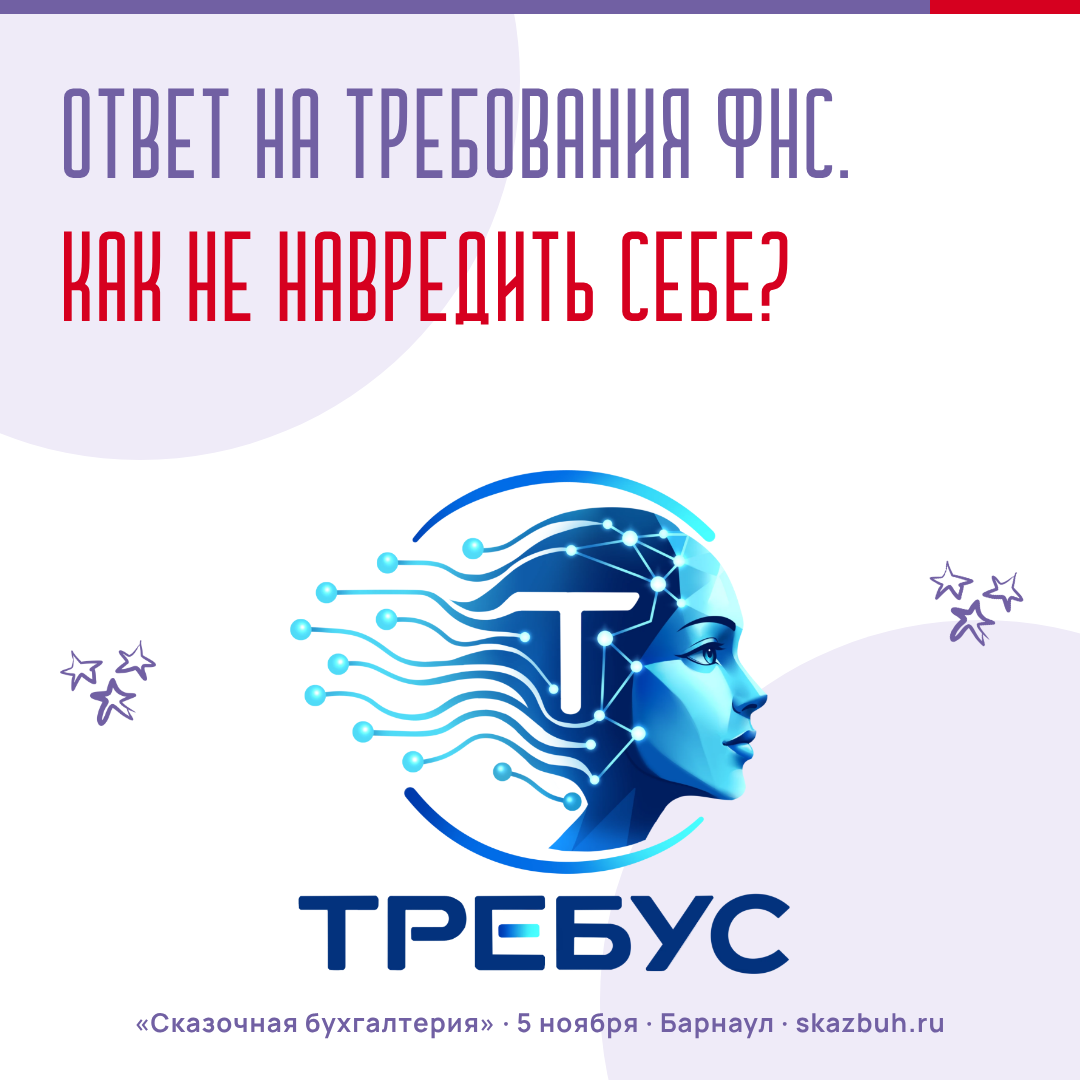
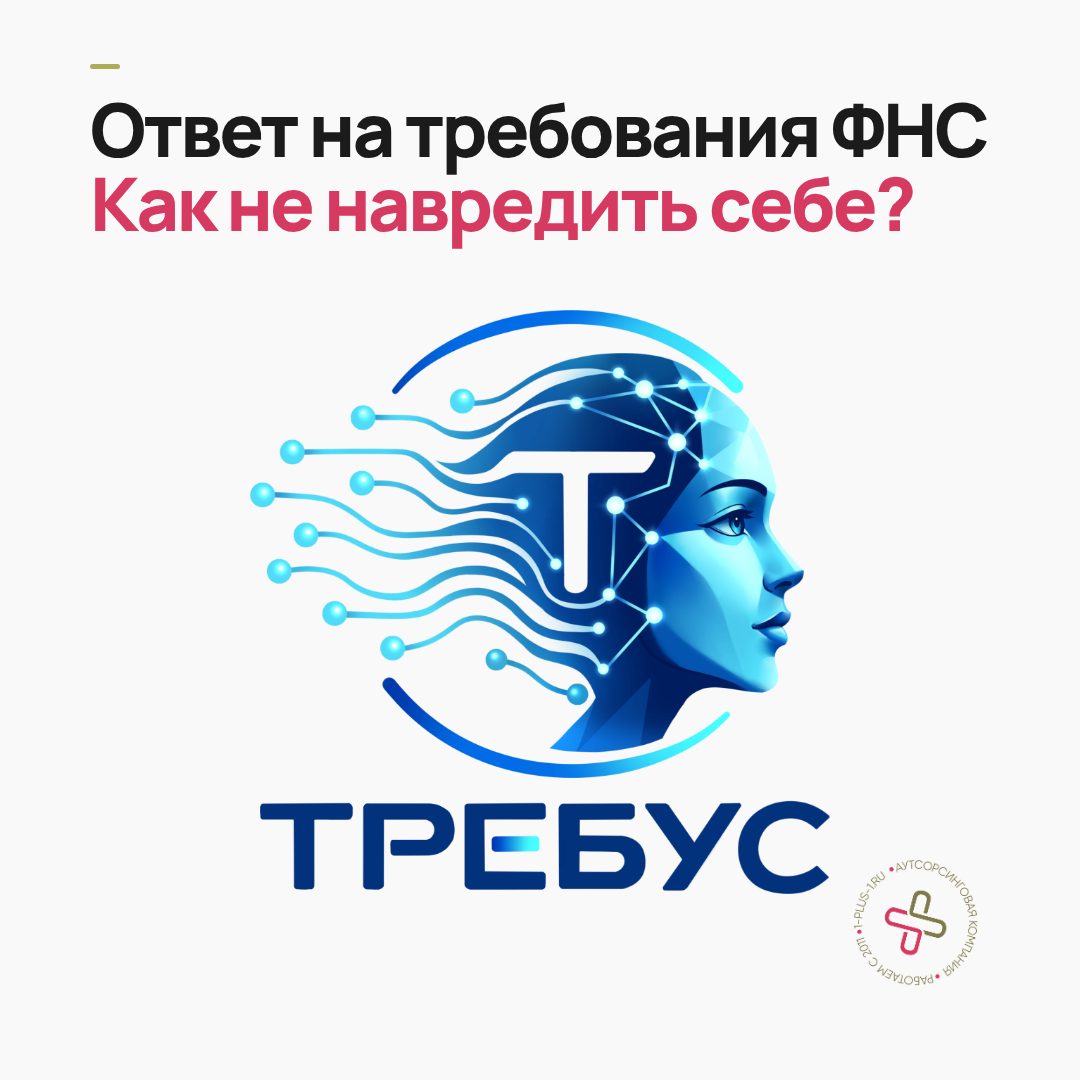
Partner creatives: 1+1 corporate style, no conference mentions
Light cloud base, ink + crimson headline (accent on the question), olive
dash, Manrope as a stand-in for Gilroy, cut-out partner logo, round 1+1
seal in the corner. Footer line about the forum removed.

Claude-Session: https://claude.ai/code/session_01DZEn5nyTAWE8zavBUm6caU

diff --git a/conference-skazbuh/social/partner-story.html b/conference-skazbuh/social/partner-story.html
@@ -1,25 +1,19 @@
 <!DOCTYPE html><html lang="ru"><head><meta charset="utf-8">
 <style>
-@font-face{font-family:'Cramaten';src:url('Cramaten.ttf');}
 @font-face{font-family:'Manrope';src:url('Manrope-Variable.ttf');font-weight:200 800;}
-:root{--violet:#7160a3;--red:#d6001f;--tint:#efebf8}
+:root{--crimson:#D73A61;--olive:#ABAD58;--ink:#1B1B1B;--cloud:#F9F9F9}
 *{margin:0;padding:0;box-sizing:border-box}
-html,body{width:1080px;height:1920px;background:#fff}
-body{position:relative;overflow:hidden}
-.c{position:absolute;border-radius:50%;background:var(--tint)}
-.c.a{left:-300px;top:-150px;width:900px;height:900px}
-.c.b{right:-340px;bottom:-240px;width:960px;height:960px}
-.bar{position:absolute;left:0;top:0;width:100%;height:16px;background:var(--violet)}
-.bar i{position:absolute;right:0;top:0;width:170px;height:16px;background:var(--red)}
-.h{position:absolute;left:64px;right:64px;top:400px;font-family:'Cramaten',sans-serif;text-transform:uppercase;color:var(--violet);font-size:150px;line-height:.98;letter-spacing:.015em}
-.h .r{display:block;color:var(--red);margin-top:24px}
-.logo{position:absolute;left:50%;margin-left:-360px;top:880px;width:720px;height:auto}
-.foot{position:absolute;left:0;right:0;top:1650px;text-align:center;font-family:'Manrope',sans-serif;font-weight:700;font-size:30px;line-height:1.5;letter-spacing:.04em;color:var(--violet)}
-.star{position:absolute;height:auto;width:116px}.s1{left:50px;top:800px}.s2{right:56px;top:190px;transform:rotate(18deg)}
+html,body{width:1080px;height:1920px;background:var(--cloud)}
+body{position:relative;overflow:hidden;font-family:'Manrope',sans-serif}
+.pat{position:absolute;left:-80px;bottom:-30px;width:1500px;opacity:.20}
+.bar{position:absolute;left:100px;top:300px;width:34px;height:6px;border-radius:3px;background:var(--olive)}
+.h{position:absolute;left:100px;right:100px;top:332px;font-weight:800;font-size:70px;white-space:nowrap;line-height:1.0;letter-spacing:-.04em;color:var(--ink)}
+.h span{display:block;color:var(--crimson)}
+.logo{position:absolute;left:50%;margin-left:-390px;top:600px;width:780px;height:auto}
+.badge{position:absolute;right:100px;top:1430px;width:190px;height:auto}
 </style></head><body>
-<div class="c a"></div><div class="c b"></div><div class="bar"><i></i></div>
-<img class="star s1" src="zvezdy-v.png" alt=""><img class="star s2" src="zvezdy-v.png" alt="">
-<div class="h">Ответ на требования ФНС.<span class="r">Как не навредить себе?</span></div>
+<div class="bar"></div>
+<div class="h">Ответ на требования ФНС<span>Как не навредить себе?</span></div>
 <img class="logo" src="trebus-cutout.png" alt="Требус">
-<div class="foot">«Сказочная бухгалтерия»<br>5 ноября · Барнаул · skazbuh.ru</div>
+<img class="badge" src="badge-round.png" alt="">
 </body></html>

diff --git a/conference-skazbuh/social/partner-square.html b/conference-skazbuh/social/partner-square.html
@@ -1,25 +1,19 @@
 <!DOCTYPE html><html lang="ru"><head><meta charset="utf-8">
 <style>
-@font-face{font-family:'Cramaten';src:url('Cramaten.ttf');}
 @font-face{font-family:'Manrope';src:url('Manrope-Variable.ttf');font-weight:200 800;}
-:root{--violet:#7160a3;--red:#d6001f;--tint:#efebf8}
+:root{--crimson:#D73A61;--olive:#ABAD58;--ink:#1B1B1B;--cloud:#F9F9F9}
 *{margin:0;padding:0;box-sizing:border-box}
-html,body{width:1080px;height:1080px;background:#fff}
-body{position:relative;overflow:hidden}
-.c{position:absolute;border-radius:50%;background:var(--tint)}
-.c.a{left:-240px;top:-300px;width:760px;height:760px}
-.c.b{right:-280px;bottom:-300px;width:760px;height:760px}
-.bar{position:absolute;left:0;top:0;width:100%;height:14px;background:var(--violet)}
-.bar i{position:absolute;right:0;top:0;width:150px;height:14px;background:var(--red)}
-.h{position:absolute;left:64px;right:64px;top:84px;font-family:'Cramaten',sans-serif;text-transform:uppercase;color:var(--violet);font-size:128px;line-height:.98;letter-spacing:.015em}
-.h .r{display:block;color:var(--red);margin-top:18px}
-.logo{position:absolute;left:50%;margin-left:-250px;top:470px;width:500px;height:auto}
-.foot{position:absolute;left:0;right:0;bottom:40px;text-align:center;font-family:'Manrope',sans-serif;font-weight:700;font-size:26px;letter-spacing:.04em;color:var(--violet)}
-.star{position:absolute;height:auto;width:96px}.s1{left:60px;top:640px}.s2{right:60px;top:560px;transform:rotate(18deg)}
+html,body{width:1080px;height:1080px;background:var(--cloud)}
+body{position:relative;overflow:hidden;font-family:'Manrope',sans-serif}
+.pat{position:absolute;left:-60px;bottom:-40px;width:1300px;opacity:.20}
+.h{position:absolute;left:90px;right:90px;top:92px;font-weight:800;font-size:74px;line-height:1.0;letter-spacing:-.04em;color:var(--ink)}
+.h span{display:block;color:var(--crimson)}
+.bar{position:absolute;left:90px;top:64px;width:30px;height:5px;border-radius:3px;background:var(--olive)}
+.logo{position:absolute;left:50%;margin-left:-290px;top:310px;width:580px;height:auto}
+.badge{position:absolute;right:90px;bottom:80px;width:160px;height:auto}
 </style></head><body>
-<div class="c a"></div><div class="c b"></div><div class="bar"><i></i></div>
-<img class="star s1" src="zvezdy-v.png" alt=""><img class="star s2" src="zvezdy-v.png" alt="">
-<div class="h">Ответ на требования ФНС.<span class="r">Как не навредить себе?</span></div>
+<div class="bar"></div>
+<div class="h">Ответ на требования ФНС<span>Как не навредить себе?</span></div>
 <img class="logo" src="trebus-cutout.png" alt="Требус">
-<div class="foot">«Сказочная бухгалтерия» · 5 ноября · Барнаул · skazbuh.ru</div>
+<img class="badge" src="badge-round.png" alt="">
 </body></html>
